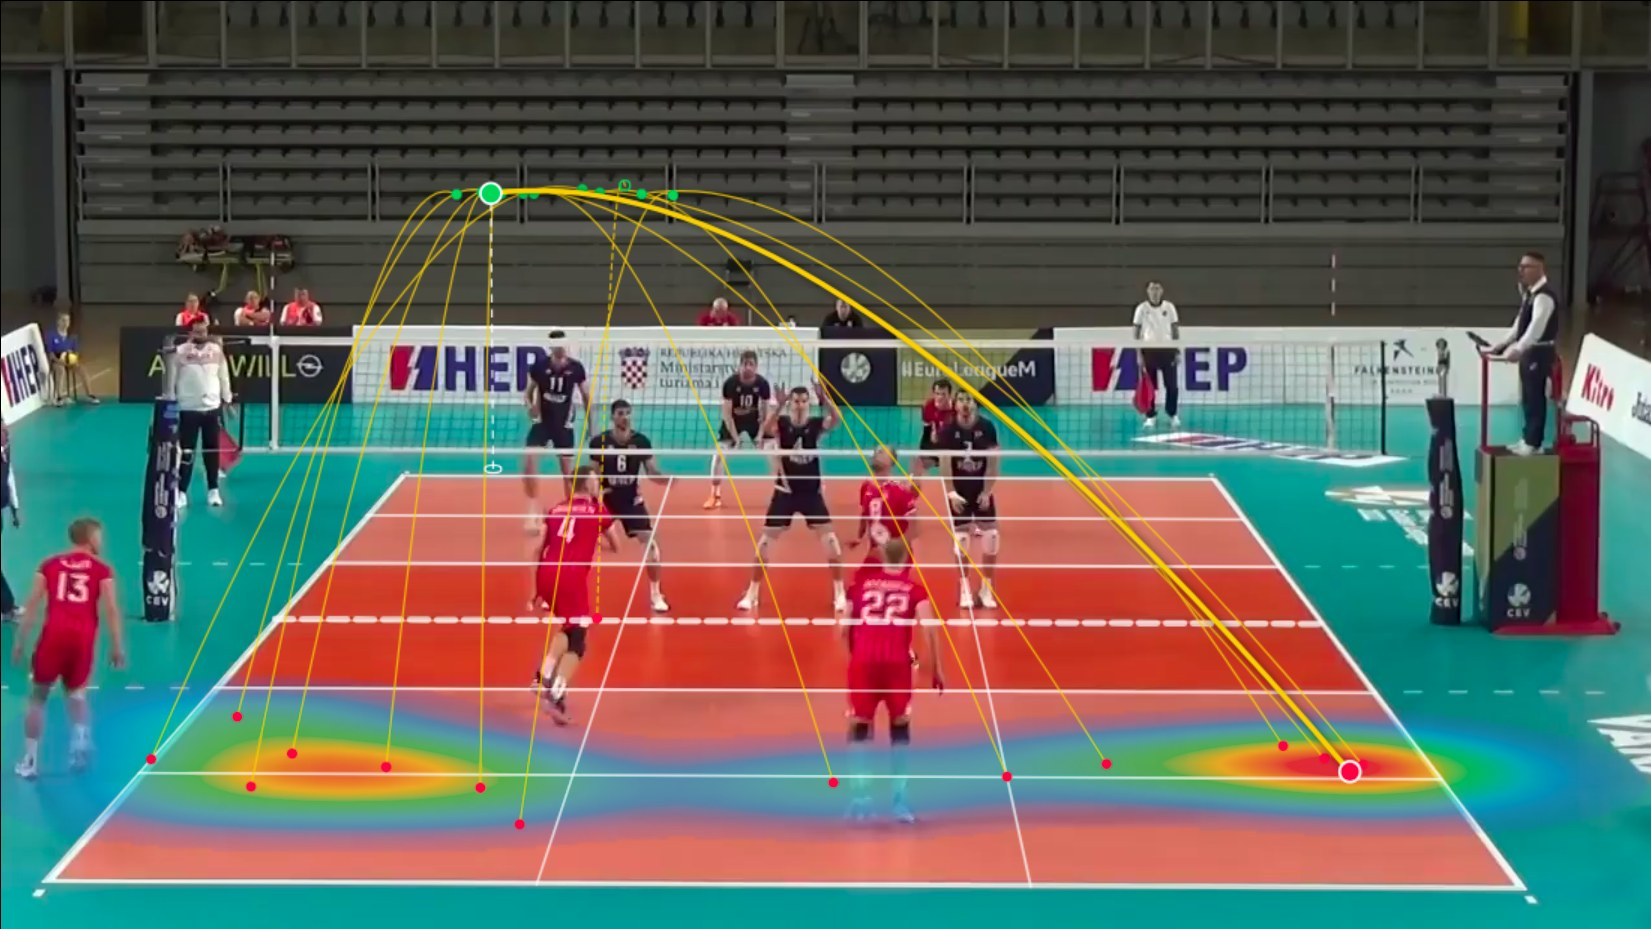
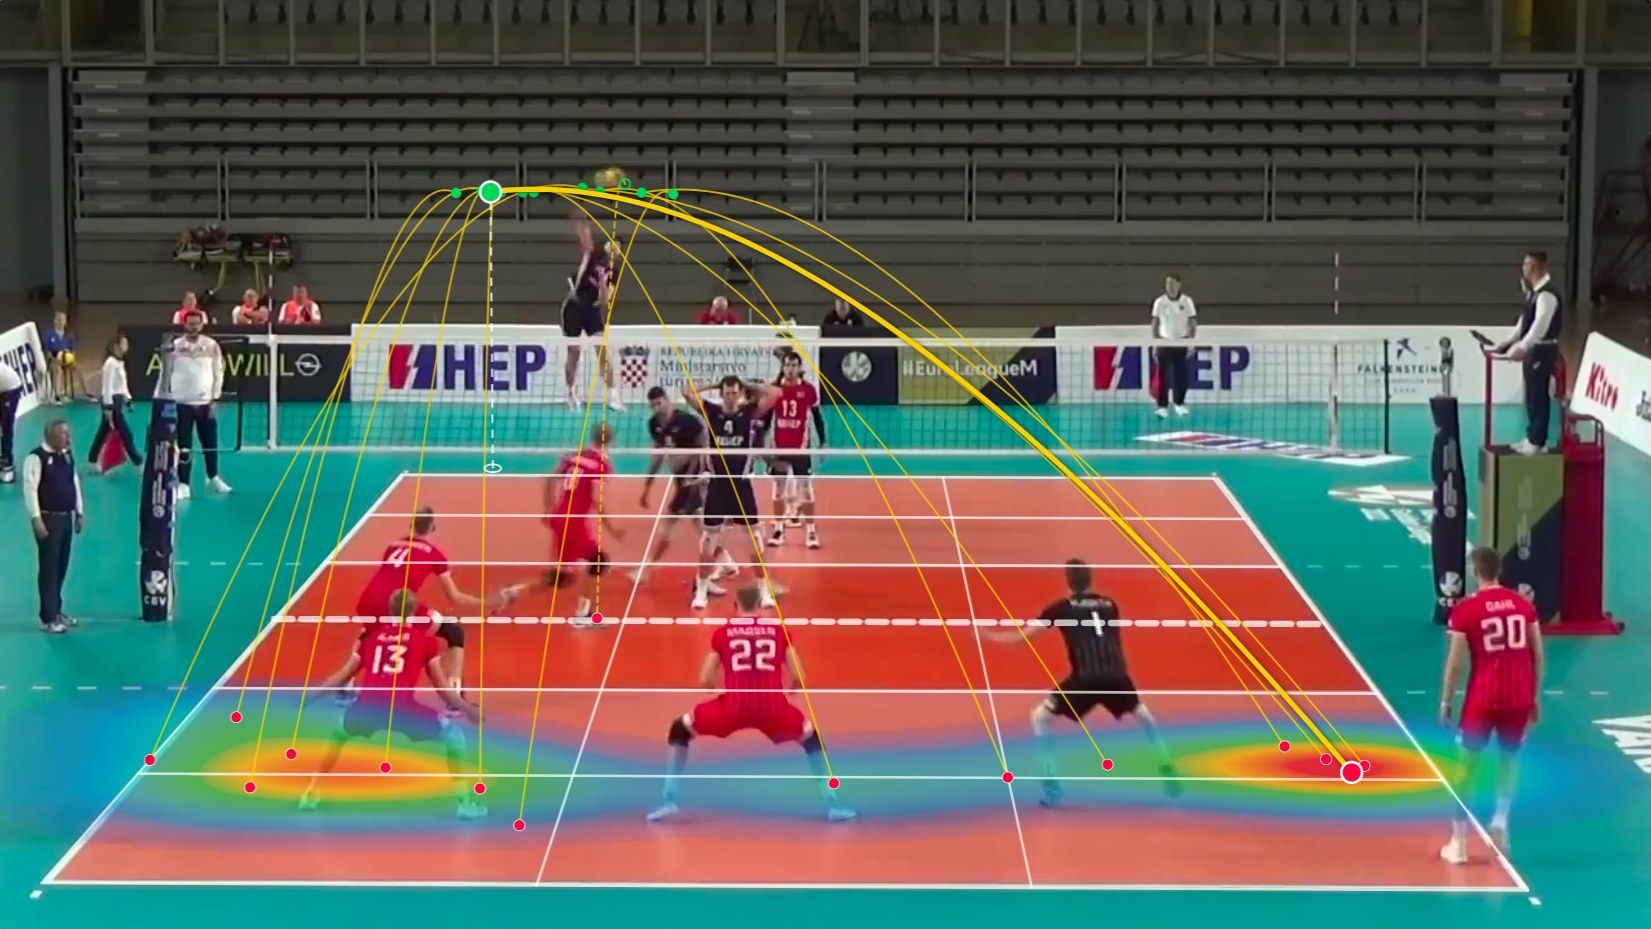
Product site: court layers caught at the moment of the play
The five "On the court" shots were taken 1.5 to 2 s after each play,
when it was already over. They are taken again from the same match and
plays at the play itself: the two attacks at the hit, the attack in the
flight and zone shots at the block, the serve with the server in the
air. Same overlays as before; the cones now show in the app's current
default colour. Alt texts follow the new frames, and site/README.md
records the plays, times and settings.

diff --git a/site/ja.html b/site/ja.html
@@ -212,11 +212,11 @@
         <p>コートの四隅を合わせる（自動で探すこともできる）と、スカウトのデータが試合動画の床に乗ります。どの表示も、見えているとおりに書き出しに入ります。</p>
       </div>
       <div class="stage" id="stage" role="tabpanel" aria-label="コートに描いたデータ">
-        <img class="on" data-layer="landing" src="img/court-landing.jpg" alt="奥からのアタックと、同じ選手の落下点とヒートマップを手前のコートに表示。">
-        <img data-layer="flight" src="img/court-flight.jpg" alt="打点の高さから落ちた位置までのアタックの軌道。ディグの選手のそばに着地。">
+        <img class="on" data-layer="landing" src="img/court-landing.jpg" alt="奥からアタックを打つ瞬間と、同じ選手の落下点とヒートマップを手前のコートに表示。">
+        <img data-layer="flight" src="img/court-flight.jpg" alt="ネット際でブロックにかかるアタック。打点の高さから手前のコートの落下点までの軌道。">
         <img data-layer="zone" src="img/court-zone.jpg" alt="コートのグリッドで、アタックの開始ゾーンを緑、終了ゾーンを赤で塗り、矢印で結んだ表示。">
-        <img data-layer="serve" src="img/court-serve.jpg" alt="奥のエンドラインの後ろから飛ぶ、1 人の選手のサーブ軌道と落下点のヒートマップ。">
-        <img data-layer="cones" src="img/court-cones.jpg" alt="アタッカーの打った位置から手前のコートへ広がる 5 つのコーンと、それぞれの割合。">
+        <img data-layer="serve" src="img/court-serve.jpg" alt="奥のエンドラインの後ろで跳んだサーバーと、その選手のサーブ軌道と落下点のヒートマップ。">
+        <img data-layer="cones" src="img/court-cones.jpg" alt="奥のネット際で打つアタッカーと、そこから手前のコートへ広がる 5 つのコーンと、それぞれの割合。">
       </div>
       <div class="tabs" role="tablist" aria-label="コートに描くもの">
         <button class="tab" id="tab-landing" role="tab" aria-selected="true" aria-controls="stage" data-layer="landing"><b>落下点とヒートマップ</b><span>同じコードのアタックが落ちた位置を、点と色で。</span></button>

diff --git a/site/index.html b/site/index.html
@@ -212,11 +212,11 @@
         <p>Fit the court's four corners, or let the app find them, and your scout data sits on the floor of the match video. Every layer goes into the export just as you see it.</p>
       </div>
       <div class="stage" id="stage" role="tabpanel" aria-label="Data drawn on the court">
-        <img class="on" data-layer="landing" src="img/court-landing.jpg" alt="An attack from the far side with the same player's landings and a heatmap on the near court.">
-        <img data-layer="flight" src="img/court-flight.jpg" alt="An attack drawn from its contact height to where it landed, next to the dig.">
+        <img class="on" data-layer="landing" src="img/court-landing.jpg" alt="The moment of an attack from the far side, with the same player's landings and a heatmap on the near court.">
+        <img data-layer="flight" src="img/court-flight.jpg" alt="An attack meeting the block at the net, drawn from its contact height to where it lands in the near court.">
         <img data-layer="zone" src="img/court-zone.jpg" alt="The court grid with the attack's start zone in green, its end zone in red and an arrow between them.">
-        <img data-layer="serve" src="img/court-serve.jpg" alt="One player's serves flying as curves from behind the far end line, with a heatmap of where they landed.">
-        <img data-layer="cones" src="img/court-cones.jpg" alt="Five cones fanning out from the attacker's spot over the near court, each with its share of attacks.">
+        <img data-layer="serve" src="img/court-serve.jpg" alt="A server in the air behind the far end line, with that player's serves as curves and a heatmap of where they landed.">
+        <img data-layer="cones" src="img/court-cones.jpg" alt="An attacker hitting at the far net, with five cones fanning out over the near court, each with its share of attacks.">
       </div>
       <div class="tabs" role="tablist" aria-label="What to draw on the court">
         <button class="tab" id="tab-landing" role="tab" aria-selected="true" aria-controls="stage" data-layer="landing"><b>Landings and heatmap</b><span>Where a player's attacks with the same code landed, as dots and colour.</span></button>

diff --git a/site/README.md b/site/README.md
@@ -13,6 +13,7 @@ Both share `site.css` and `site.js` (the court layer tabs and the film's chapter
   2. 0:38-1:05, ten matches of made-up data: five data slides (5 s each: Serve cards, Rotation P5, Set, Serve targets, Player stats; `mkslide.sh` makes one) under the scene title card "Sample data: 10 matches" / "サンプルデータ：10 試合". The data is the fictional Riverside Herons (RSH): ten matches from `source/make_demo_dvw.py` (the games list is in a copy of its `__main__`: 3 opponents, 10 Saturdays from 2026-09-12 to 2026-11-14, seeds 3, 8, 15, 21, 34, 41, 52, 57, 63, 70), imported with "Import from folders" into a fresh library, with a 2-hour stand-in video per match (a 60 s loop of `source/still-attack.jpg`, repeated with `-stream_loop` and `-c copy`; encoding 2 hours directly takes far too long). A project "Riverside Herons season" holds all ten matches.
   3. 1:05-1:10, the team comparison slide, exported from a second project, "Hillcrest Falcons" (target team HCF, its 4 matches), because the slide needs two projects: Team HCF, our team the RSH season. Its scene title card is switched off so it joins the slides.
   The film's moments are at 0:02, 0:11, 0:20, 0:29, 0:38 and 1:05 (chapters) and 0:40, 0:45, 0:55, 1:00 (cards), which `data-t` in the HTML and `site.js` use.
+- `img/court-*.jpg` (the court layers, shared by both pages) are the film's match (the `SyncScout-film-work` library, on a copy) paused at the moment of the play, the video area of a 1.5x window shot trimmed to 1651 x 929, with scoreboard, caption, serve speed, landing effect and result badge off and the grid on. App times (the app reads about 0.17 s later than ffmpeg on this file): landing (heatmap and landings) and cones, S1 09-09 #7 SEDLACEK attack, 873.7 s, at the hit; flight (points, flight curve) and zone (zones, no curve), S1 01-02 #11 DIRLIC attack, 455.85 s, at the block (the scout time, 456, comes about 0.85 s late here); serve (heatmap, serve paths, landings), S1 12-09 #11 DIRLIC serve, 1013.2 s, the server in the air. An earlier set caught each play 1.5 to 2 s late, after it was over.
 - `img/court-autofit.jpg` and `img/ja/court-autofit.jpg` show the court being fitted automatically: import the match into a fresh library ("Import one match"), open it, seek to a rally (1424.5 s), and capture before pressing Done: the grid is laid by itself, with the four corner dots and the notice. The Japanese one needs a second fresh library started with `VR_LANG=ja`, because the notice only shows the first time.
 - `img/film-*.jpg` and `img/ja/film-*.jpg` are frames of those moments (7.6, 16.2, 25.6, 34.4, 42.5, 47.5, 57.5, 62.5 and 67.5 s); `film-poster.jpg` is the 25.6 s frame. `img/after.jpg` and `img/ja/after.jpg` (the 16.2 s frame) and `img/before.jpg` make the before-and-after pair: `before.jpg` is the same moment cut straight from the source video at 906.5 s: the clip starts 3 s before the scout time (905 s), so film time 17.5 s is 902 + 4.5 s. (The app's own playhead reads about 1.4 s differently from ffmpeg for this file, so find stills with ffmpeg, not by the playhead.)
 - The scout file used for the film is the CRO-DNK .dvw with the two team codes in `[3TEAMS]` changed from numbers to CRO and DNK. Seeking in the film needs a server that answers Range requests (any normal host does; Python's `http.server` does not).
